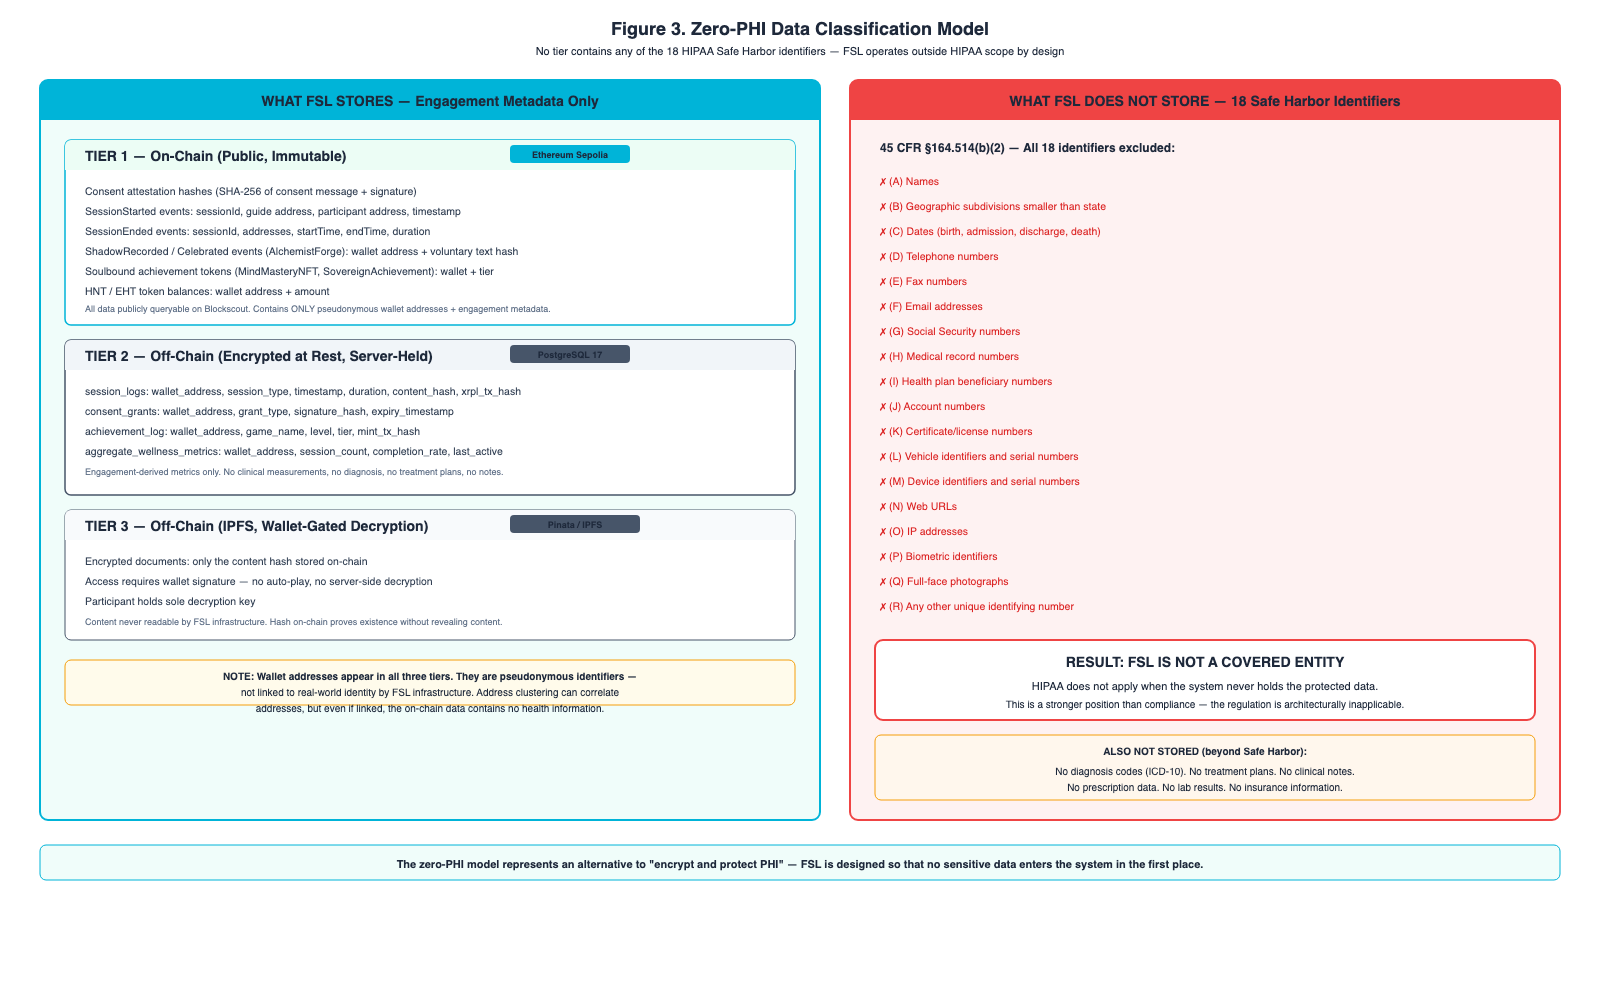
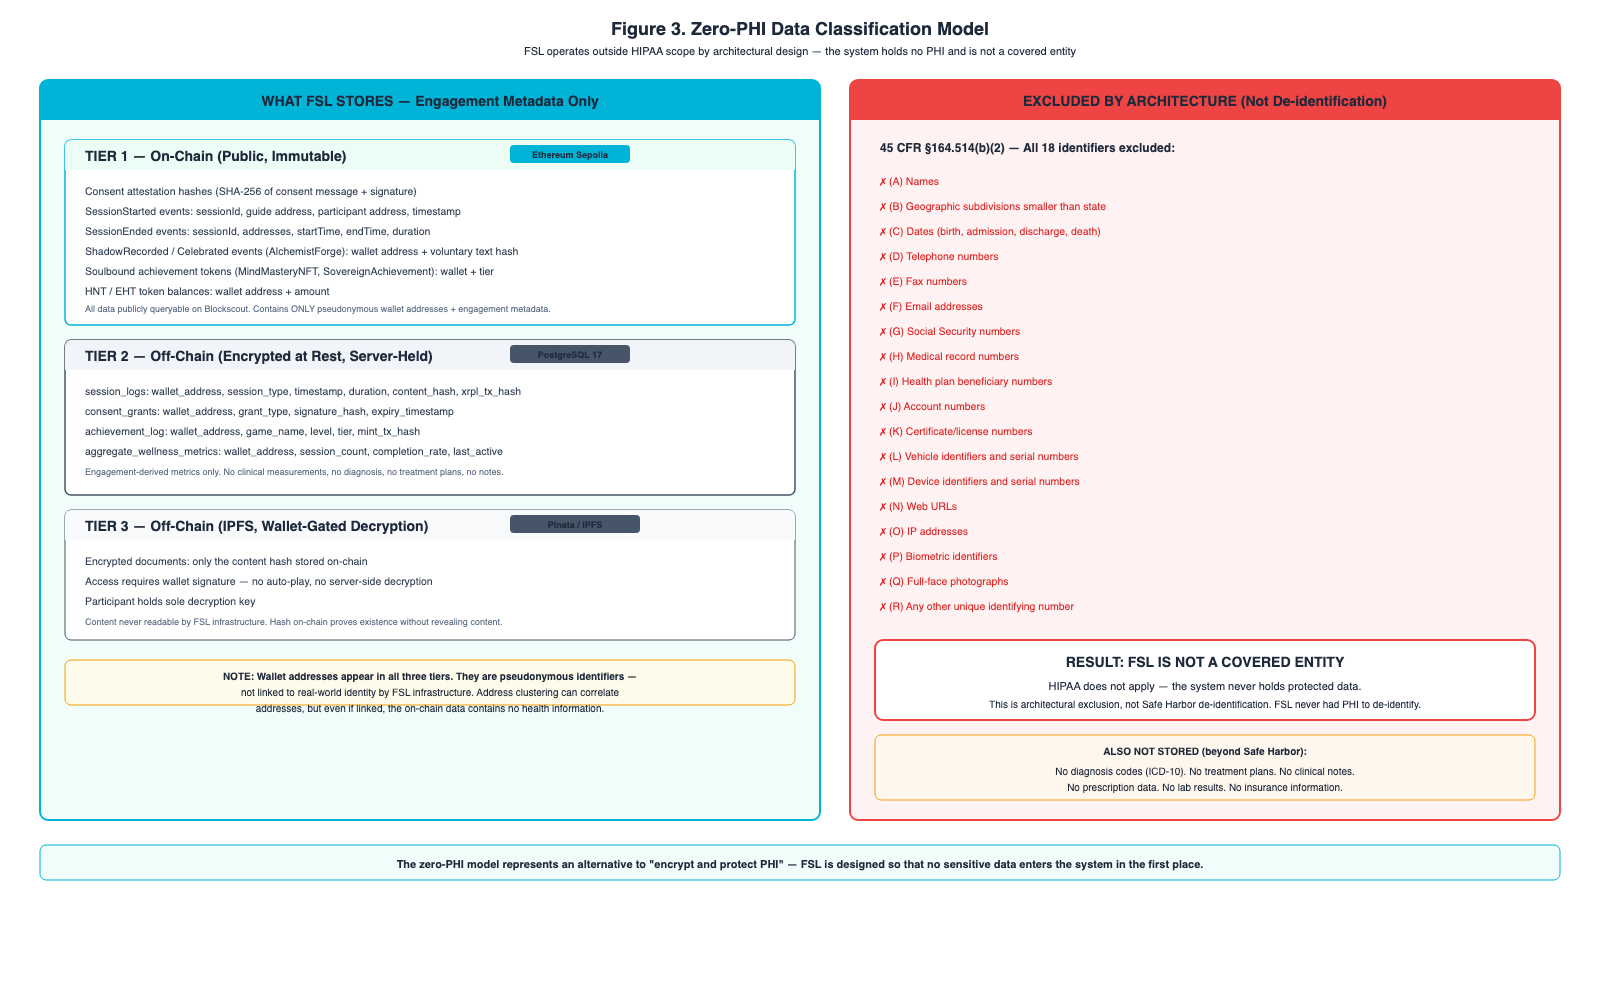
fix(figures): align Fig 2 to 6 steps + Fig 3 caption distinguishes architectural exclusion from de-identification
Fig 2: Realigned from 7 steps to 6 matching paper Section 3.2:
  1-Wallet Detection, 2-Account Request, 3-Nonce Generation,
  4-Consent Message Construction, 5-Cryptographic Consent (gold),
  6-Server Verification + JWT Issuance

Fig 3: Caption and subtitle now explicitly distinguish:
  - "Outside HIPAA scope" (architectural — not a covered entity)
  - vs "Safe Harbor de-identification" (administrative — NOT claimed)
  Right panel header: "EXCLUDED BY ARCHITECTURE (Not De-identification)"
  Verdict box: "FSL never had PHI to de-identify"

PDF regenerated with both fixes. Synced to Desktop.

Changed region(s): [[0.3438, 0.031, 0.6562, 0.062], [0.625, 0.682, 0.875, 0.713], [0.625, 0.093, 0.875, 0.124]]

diff --git a/academic/BHTY_PAPER_v2.html b/academic/BHTY_PAPER_v2.html
@@ -178,7 +178,7 @@ function verifyConsentSignature(message, signature, claimedAddress) {
 <li>Encrypted documents (IPFS-pinned, wallet-gated decryption)</li>
 </ul>
 <p>This hybrid approach addresses the fundamental tension between blockchain immutability and healthcare data requirements: data that could become sensitive is encrypted and stored off-chain where it can be managed (and deleted if necessary), while consent events and attestations are anchored on-chain where they provide an immutable audit trail.</p>
-<figure><img src="/Users/futuresystemslab/fsl-governance/academic/figures/v2/fig3_zero_phi_data_classification.png" style="width:100%;max-width:1600px"/><figcaption>Figure 3. Zero-PHI data classification model.</figcaption></figure>
+<figure><img src="/Users/futuresystemslab/fsl-governance/academic/figures/v2/fig3_zero_phi_data_classification.png" style="width:100%;max-width:1600px"/><figcaption>Figure 3. Zero-PHI data classification model. FSL operates outside HIPAA scope by architectural exclusion (not a covered entity, holds no PHI) — distinct from Safe Harbor de-identification, which presumes PHI existed and was stripped.</figcaption></figure>
 <h3>5.2 Regulatory Scope: Outside HIPAA by Architectural Design</h3>
 <p>FSL operates outside HIPAA regulatory scope by architectural design — the system holds zero PHI, is not a covered entity, and maintains no business associate relationships. This determination rests on three architectural properties as defined by 45 CFR Section 160.103 [3]:</p>
 <p>1. <b>No PHI storage.</b> The system stores no individually identifiable health information. Participants are identified solely by pseudonymous Ethereum wallet addresses. No names, dates of birth, Social Security numbers, medical record numbers, or any of the 18 HIPAA identifiers are collected or stored. Wellness engagement metrics are aggregate and non-clinical.</p>